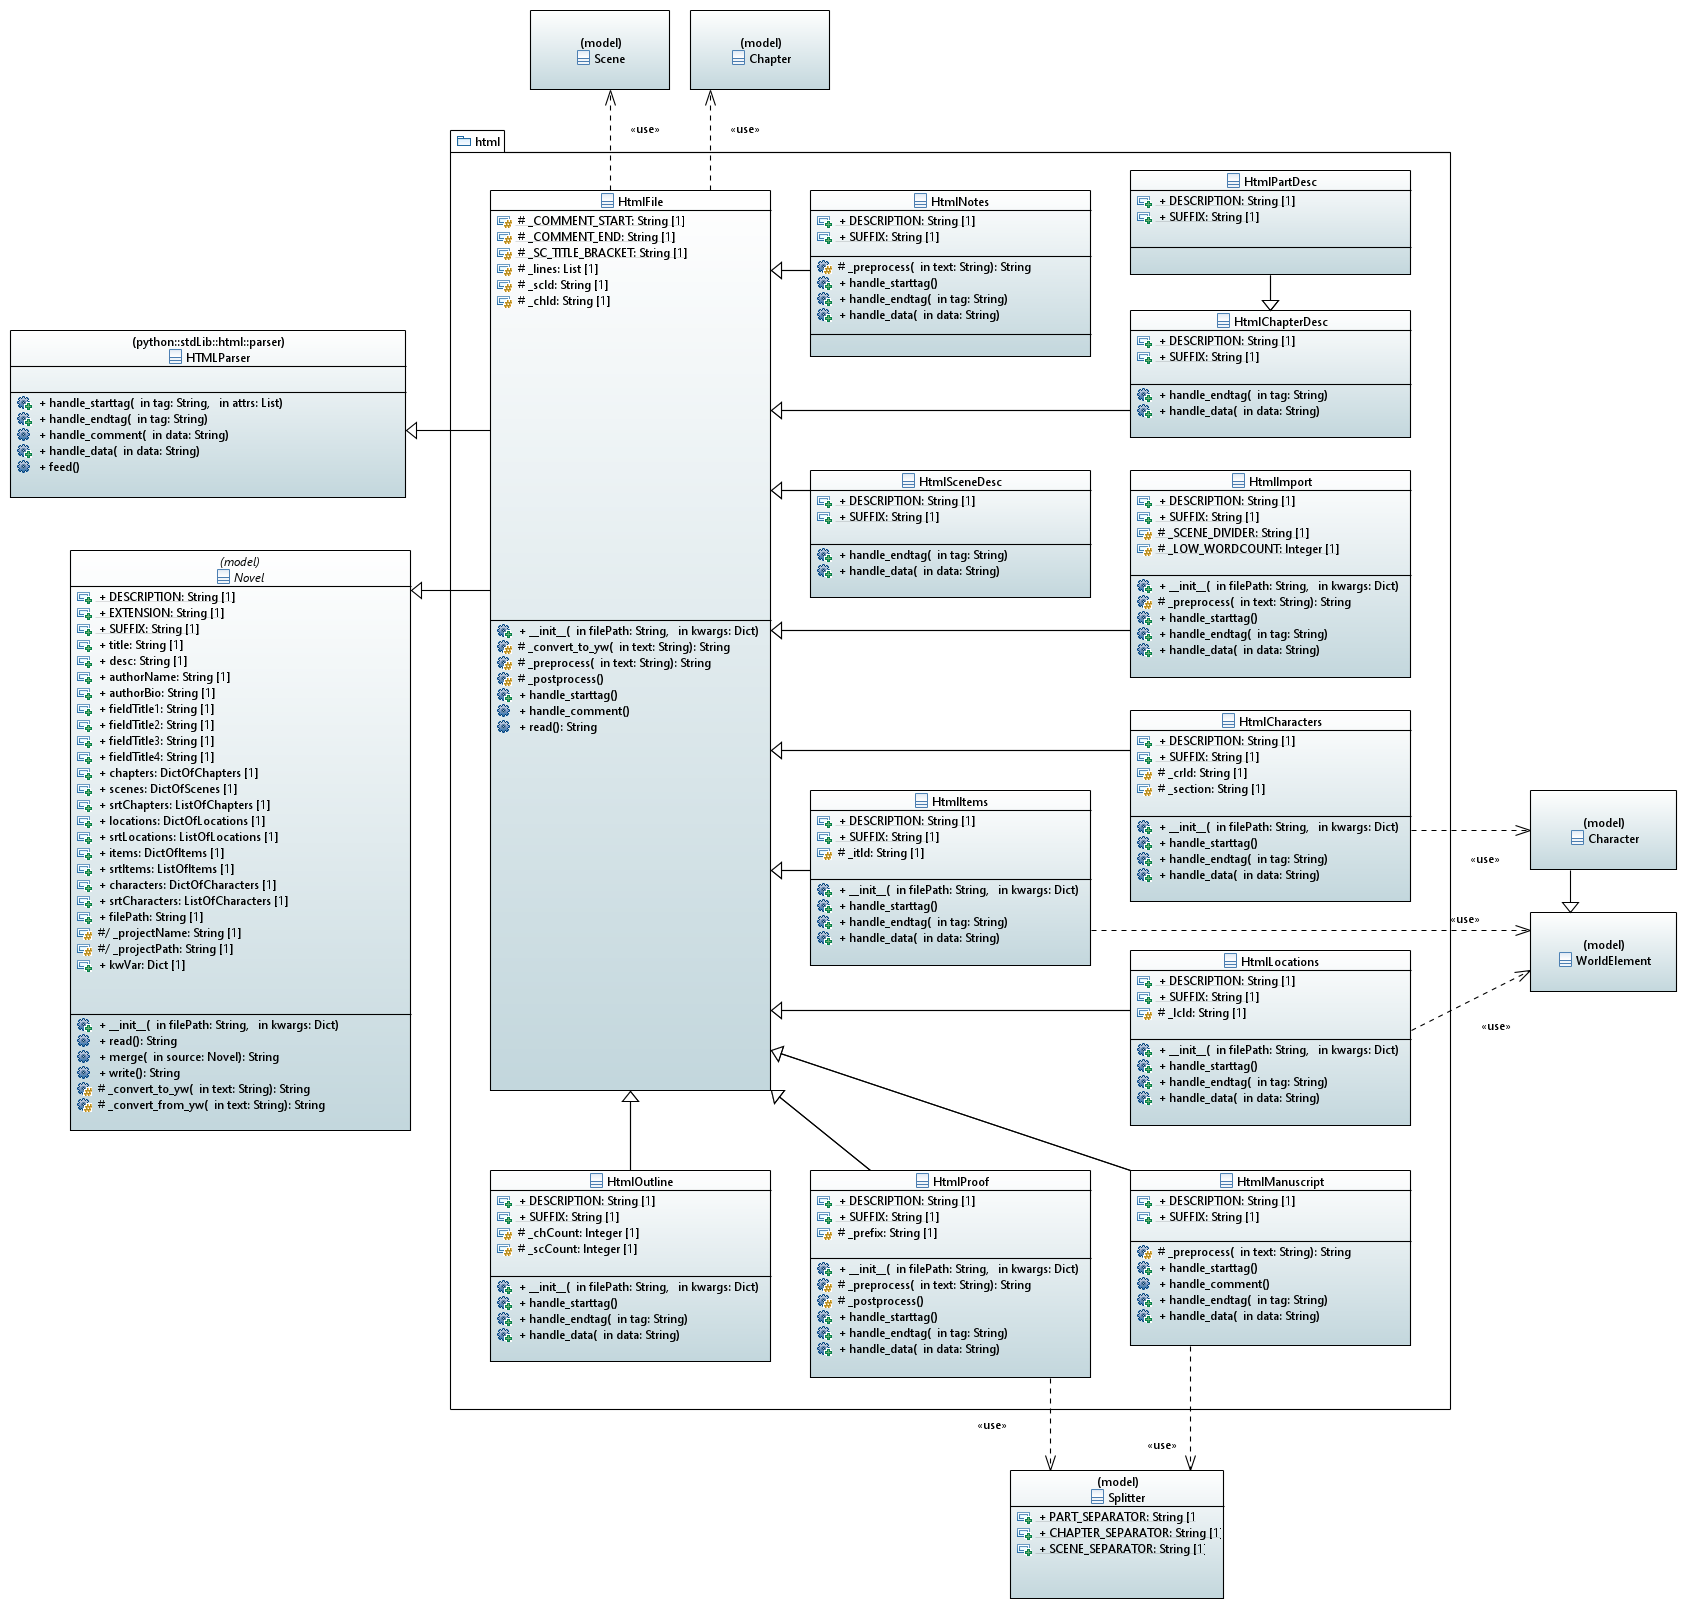
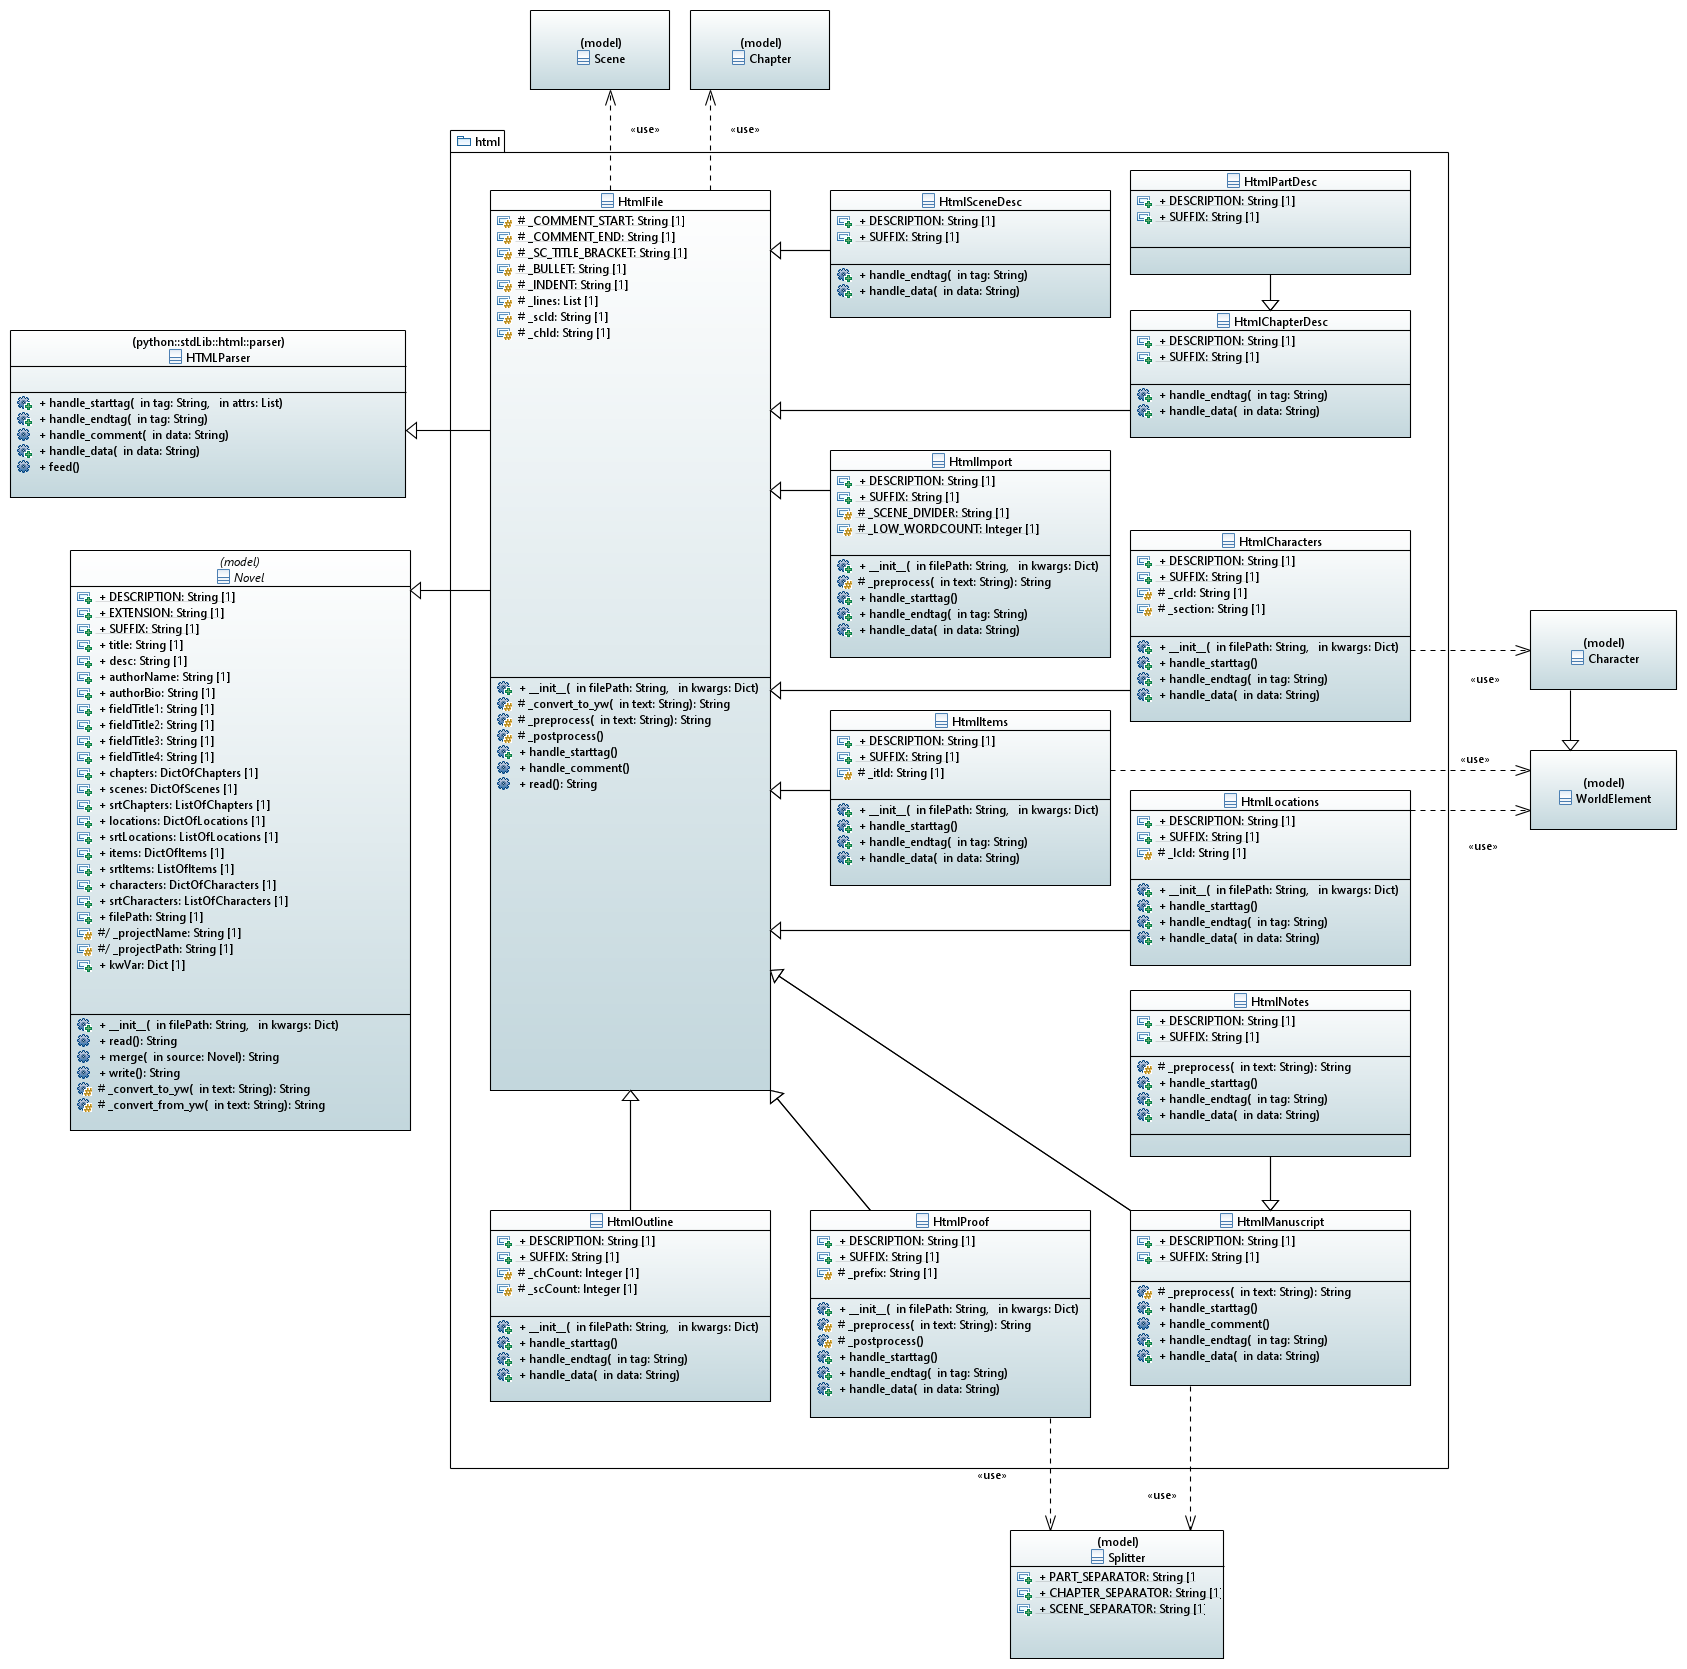
Prepare PyWriter v5.4.1
- Add indentation marks when importing HTML "blockquote" paragraphs.
- Update UML model and diagrams.
- Update documentation.

diff --git a/src/pywriter/odt/odt_file.py b/src/pywriter/odt/odt_file.py
@@ -322,6 +322,10 @@ class OdtFile(OdfFile):
    <style:paragraph-properties loext:contextual-spacing="false" fo:margin-top="0cm" fo:margin-bottom="0cm" style:page-number="auto"/>
    <style:text-properties fo:font-variant="normal" fo:text-transform="none" fo:letter-spacing="normal" fo:font-style="italic" fo:font-weight="normal"/>
   </style:style>
+  <style:style style:name="Quotations" style:family="paragraph" style:parent-style-name="Text_20_body" style:class="html" style:master-page-name="">
+   <style:paragraph-properties loext:contextual-spacing="false" fo:margin="100%" fo:margin-left="1cm" fo:margin-right="0cm" fo:margin-top="0cm" fo:margin-bottom="0cm" fo:text-indent="0cm" style:auto-text-indent="false" style:page-number="auto"/>
+   <style:text-properties style:font-name="Consolas"/>
+  </style:style>
   <style:style style:name="yWriter_20_mark" style:display-name="yWriter mark" style:family="paragraph" style:parent-style-name="Standard" style:next-style-name="Standard" style:class="text">
    <style:text-properties fo:color="#008000" fo:font-size="10pt"/>
   </style:style>
@@ -397,15 +401,16 @@ class OdtFile(OdfFile):
         
         Overrides the superclass method.
         """
-        if quick:            
+        if quick:
             # Just clean up a one-liner without sophisticated formatting.
             try:
                 return text.replace('&', '&amp;').replace('>', '&gt;').replace('<', '&lt;')
-            
+
             except AttributeError:
                 return ''
 
         ODT_REPLACEMENTS = [
+            ('\n> ', '</text:p>\r<text:p text:style-name="Quotations">'),
             ('&', '&amp;'),
             ('>', '&gt;'),
             ('<', '&lt;'),
@@ -446,6 +451,8 @@ class OdtFile(OdfFile):
                 line = line.replace('[b][/b]', '')
                 newlines.append(line)
             text = '\n'.join(newlines).rstrip()
+
+            # Process the replacements list.
             for yw, od in ODT_REPLACEMENTS:
                 text = text.replace(yw, od)
 

diff --git a/src/pywriter/html/html_manuscript.py b/src/pywriter/html/html_manuscript.py
@@ -15,7 +15,6 @@ class HtmlManuscript(HtmlFile):
     """
     DESCRIPTION = 'Editable manuscript'
     SUFFIX = '_manuscript'
-    _BULLET = '-'
 
     def _preprocess(self, text):
         """Process the html text before parsing.
@@ -48,6 +47,8 @@ class HtmlManuscript(HtmlFile):
                 self._lines.append(f'{Splitter.PART_SEPARATOR} ')
             elif tag == 'li':
                 self._lines.append(f'{self._BULLET} ')
+            elif tag == 'blockquote':
+                self._lines.append(f'{self._INDENT} ')
 
     def handle_endtag(self, tag):
         """Recognize the end of the scene section and save data.
@@ -71,6 +72,8 @@ class HtmlManuscript(HtmlFile):
                 self._lines.append('\n')
             elif tag == 'h3' and not self._getScTitle:
                 self._lines.append('\n')
+            elif tag == 'blockquote':
+                self._lines.append('\n')
         elif self._chId is not None:
             if tag == 'div':
                 self._chId = None
@@ -87,13 +90,14 @@ class HtmlManuscript(HtmlFile):
         if self._scId is not None:
             if not self._lines:
                 # Comment is at scene start
-                if self._SC_TITLE_BRACKET in data:
-                    # Comment is marked as a scene title
-                    try:
-                        self.scenes[self._scId].title = data.split(self._SC_TITLE_BRACKET)[1].strip()
-                    except:
-                        pass
-                    return
+                pass
+            if self._SC_TITLE_BRACKET in data:
+                # Comment is marked as a scene title
+                try:
+                    self.scenes[self._scId].title = data.split(self._SC_TITLE_BRACKET)[1].strip()
+                except:
+                    pass
+                return
 
             self._lines.append(f'{self._COMMENT_START}{data.strip()}{self._COMMENT_END}')
 

diff --git a/src/pywriter/html/html_proof.py b/src/pywriter/html/html_proof.py
@@ -77,12 +77,16 @@ class HtmlProof(HtmlFile):
         
         Overrides the superclass method.
         """
-        if tag == 'p':
+        if tag == 'p' and self._prefix is None:
             self._prefix = ''
         elif tag == 'h2':
             self._prefix = f'{Splitter.CHAPTER_SEPARATOR} '
         elif tag == 'h1':
             self._prefix = f'{Splitter.PART_SEPARATOR} '
+        elif tag == 'li':
+            self._prefix = f'{self._BULLET} '
+        elif tag == 'blockquote':
+            self._prefix = f'{self._INDENT} '
 
     def handle_endtag(self, tag):
         """Recognize the paragraph's end.      
@@ -92,7 +96,7 @@ class HtmlProof(HtmlFile):
 
         Overrides HTMLparser.handle_endtag() called by the HTML parser to handle the end tag of an element.
         """
-        if tag in ['p', 'h2', 'h1']:
+        if tag in ['p', 'h2', 'h1', 'blockquote']:
             self._prefix = None
 
     def handle_data(self, data):

diff --git a/src/pywriter/html/html_file.py b/src/pywriter/html/html_file.py
@@ -27,6 +27,8 @@ class HtmlFile(Novel, HTMLParser):
     _COMMENT_START = '/*'
     _COMMENT_END = '*/'
     _SC_TITLE_BRACKET = '~'
+    _BULLET = '-'
+    _INDENT = '>'
 
     def __init__(self, filePath, **kwargs):
         """Initialize the HTML parser and local instance variables for parsing.
@@ -147,7 +149,7 @@ class HtmlFile(Novel, HTMLParser):
         
         Overrides HTMLparser.handle_comment() called by the parser when a comment is encountered.
         """
-        if self._scId is not None: 
+        if self._scId is not None:
             self._lines.append(f'{self._COMMENT_START}{data}{self._COMMENT_END}')
 
     def read(self):

diff --git a/docs/doctypes.md b/docs/doctypes.md
@@ -95,6 +95,8 @@ text document (odt).
     indented.
 -   Starting from the second paragraph, paragraphs begin with
     indentation of the first line.
+-   Paragraphs starting with `> ` are formatted as quotations.
+-   Paragraphs starting with list strokes (`- `) are formatted as lists.
 -   Scenes marked "attach to previous scene" in yWriter appear like
     continuous paragraphs.
 
@@ -140,8 +142,8 @@ seen in the Navigator). File name suffix is `_manuscript`.
 
 -  Only "normal" chapters and scenes are exported. Chapters and
    scenes marked "unused", "todo" or "notes" are not exported.
--  Comments right at the beginning of the scenes are written back 
-   as scene titles if surrounded by `~`.
+-  Comments within scenes are written back as scene titles 
+   if surrounded by `~`.
 -  Chapters and scenes can neither be rearranged nor deleted.
 -  Scenes can be split by inserting headings or a scene divider:
     -  *Heading 1* --› New chapter title (beginning a new section).
@@ -268,8 +270,8 @@ Write yWriter 7 "Notes" chapters with child scenes into a new
 OpenDocument text document (odt) with invisible chapter and scene 
 sections (to be seen in the Navigator). File name suffix is `_notes`.
 
--  Comments right at the beginning of the scenes are written back 
-as scene titles if surrounded by `~`.
+-  Comments within scenes are written back as scene titles
+   if surrounded by `~`.
 -  Chapters and scenes can neither be rearranged nor deleted.
 -  Scenes can be split by inserting headings or a scene divider:
     -  *Heading 1* --› New chapter title (beginning a new section).
@@ -351,30 +353,6 @@ row in the scene list. Scenes of the "Unused", "Notes", or "ToDo"
 type are omitted.
 
 File name suffix is `_scenelist`.
-
-[Top of page](#top)
-
-------------------------------------------------------------------------
-
-## Export plot list
-
-Generate a new OpenDocument spreadsheet (ods) listing plot
-related metadata that can be displayed and edited. 
-
-- ID (Hyperlink to the manuscript)
-- Plot section (Title of "Notes" chapter)
-- Plot event (Scene tag)
-- Scene title
-- Details (Notes)
-- Sequential scene number
-- Words total
-- Rating 1
-- Rating 2
-- Rating 3
-- Rating 4
-
-File name suffix is `_plotlist`.
-
 
 [Top of page](#top)
 
